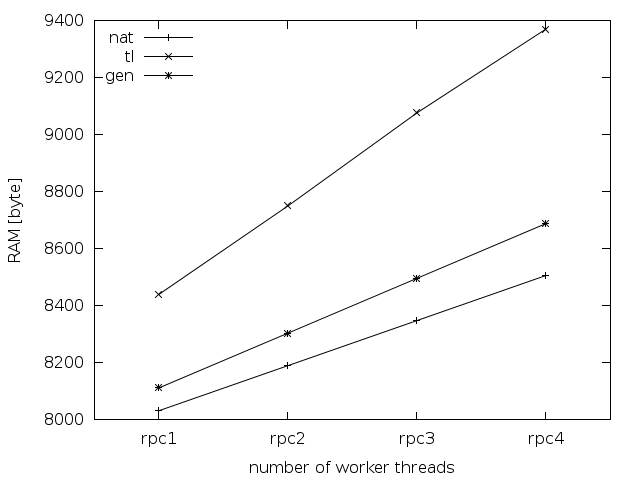
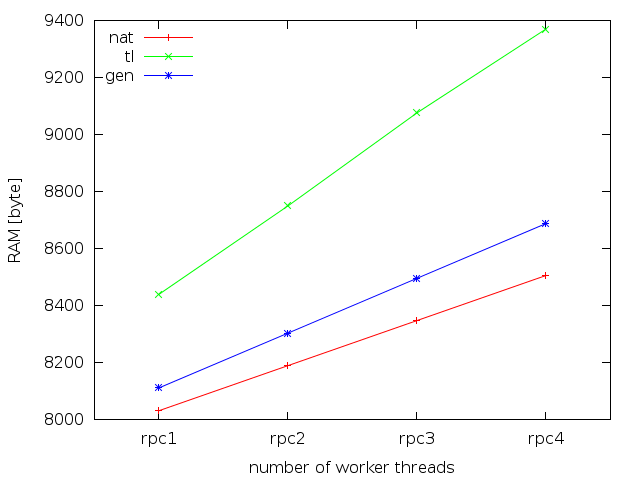
new plots

diff --git a/applications/contiki/plots/text.py b/applications/contiki/plots/text.py
@@ -3,25 +3,28 @@ import StringIO
 import os
 
 script = """
-set terminal pngcairo mono size 640, 480
+set terminal pngcairo size 640, 480
+set style fill pattern 1 border
 set output '%(outfile)s.png'
          
 set style data histograms
-set style histogram rowstacked title
+set style histogram columnstacked
 
-set style fill pattern 1 border
 
-set datafile missing '0'
+set datafile missing '-'
 
-set key left
+set key right 
 set auto x
-set yrange [0:*]
-
+set yrange [40000:47000]
 set ylabel "text [bytes]"
+set xlabel "dca                       coap                       rpc"
 
-plot newhistogram "dca", '%(infile)s' using 2:xtic(1) t col, '' u 3 t col, \\
-     newhistogram "coap", '' u 4:xtic(1) t col, '' u 5 t col, \\
-     newhistogram "rpc2", '' u 6:xtic(1) t col, '' u 7 t col
+set xtics ("" 0, \\
+           "nat" 1, "tl" 2, "gen" 3, "" 4, \\
+           "nat" 5, "tl" 6, "gen" 7, "" 8, \\
+           "nat" 9, "tl" 10, "gen" 11, "" 12)
+
+plot for [i=2:13] '%(infile)s' using i, '' u 14:key(1)
 """
 
 def plot(path, values_, (apps_, variants_, measurements_), numbers):
@@ -43,9 +46,14 @@ def plot(path, values_, (apps_, variants_, measurements_), numbers):
                 values[(a, v, "pal")] = values_[(a, "pal", "text")]
             else:
                 values[(a, v, "text")] = values_[(a, v, "text")]
-                values[(a, v, "pal")] = "-"
+                values[(a, v, "pal")] = '-'
 
-    plotdata = plotting.stacked_grouped_boxes(values, apps, variants, measurements)
+    data = StringIO.StringIO()
+    for m in ["text", "pal"]:
+        vals = [values[(a, v, m)] for a in apps for v in variants]
+        plotting.out(data, [m] + [0] + vals[0:3] + [0] + vals[3:6] + [0] + vals[6:9] + [0])
+    plotdata = data.getvalue()
+
     config = {'outfile': os.path.join(path, "text")}
     plotting.plot(script, config, plotdata)
 

diff --git a/applications/contiki/plots/ram.py b/applications/contiki/plots/ram.py
@@ -3,21 +3,25 @@ import StringIO
 import os
 
 script = """
-set terminal pngcairo mono size 640, 480
+set terminal pngcairo size 640, 480
+set style fill pattern 1 border
 set output '%(outfile)s.png'
          
 set style data histograms
-set style histogram rowstacked title
-set style fill pattern 1 border
+set style histogram columnstacked
 
+set key right
 set auto x
-set yrange [0:*]
-
+set yrange [7000:9500]
 set ylabel "RAM [bytes]"
+set xlabel "dca                       coap                       rpc"
 
-plot newhistogram "dca", '%(infile)s' using 2:xtic(1) t col, '' u 3 t col, '' u 4 t col, \\
-     newhistogram "coap", '' u 5:xtic(1) t col, '' u 6 t col, '' u 7 t col, \\
-     newhistogram "rpc2", '' u 8:xtic(1) t col, '' u 9 t col, '' u 10 t col
+set xtics ("" 0, \\
+           "nat" 1, "tl" 2, "gen" 3, "" 4, \\
+           "nat" 5, "tl" 6, "gen" 7, "" 8, \\
+           "nat" 9, "tl" 10, "gen" 11, "" 12)
+
+plot for [i=2:13] '%(infile)s' using i, '' u 14:key(1)
 """
 
 def plot(path, values, (apps_, variants_, measurements_), numbers):
@@ -30,8 +34,12 @@ def plot(path, values, (apps_, variants_, measurements_), numbers):
     variants = ["nat", "tl", "gen"]
     assert set(variants).issubset(set(variants_)), str(variants_)
 
-    plotdata = plotting.stacked_grouped_boxes(values, apps, variants, measurements)
-   
+    data = StringIO.StringIO()
+    for m in measurements:
+        vals = [values[(a, v, m)] for a in apps for v in variants]
+        plotting.out(data, [m] + [0] + vals[0:3] + [0] + vals[3:6] + [0] + vals[6:9] + [0])
+    plotdata = data.getvalue()
+
     config = {'outfile': os.path.join(path, "ram")}
     plotting.plot(script, config, plotdata)
 

diff --git a/applications/contiki/plots/cpu.py b/applications/contiki/plots/cpu.py
@@ -2,7 +2,7 @@ import plotting
 import os
 
 script = """
-set terminal pngcairo mono size 640, 480
+set terminal pngcairo size 640, 480
 set output '%(outfile)s.png'
 
 set style data histogram
@@ -12,7 +12,7 @@ set style fill pattern 1 border
 
 set key left
 set auto x
-set yrange [0:900000]
+set yrange [600000:820000]
 
 set ylabel "CPU cycles"
 

diff --git a/applications/contiki/plots/pt_ram.py b/applications/contiki/plots/pt_ram.py
@@ -2,7 +2,7 @@ import plotting
 import os
 
 script = """
-set terminal pngcairo mono size 640, 480
+set terminal pngcairo size 640, 480
 set output '%(outfile)s.png'
 
 set style data linespoints

diff --git a/applications/contiki/plots/pt_text.py b/applications/contiki/plots/pt_text.py
@@ -2,7 +2,7 @@ import plotting
 import os
 
 script = """
-set terminal pngcairo mono size 640, 480
+set terminal pngcairo size 640, 480
 set output '%(outfile)s.png'
 
 set style data linespoints

diff --git a/applications/contiki/plots/loc.py b/applications/contiki/plots/loc.py
@@ -3,7 +3,7 @@ import StringIO
 import os
 
 script = """
-set terminal pngcairo mono size 640, 480
+set terminal pngcairo size 640, 480
 set output '%(outfile)s.png'
 
 set style data histogram
